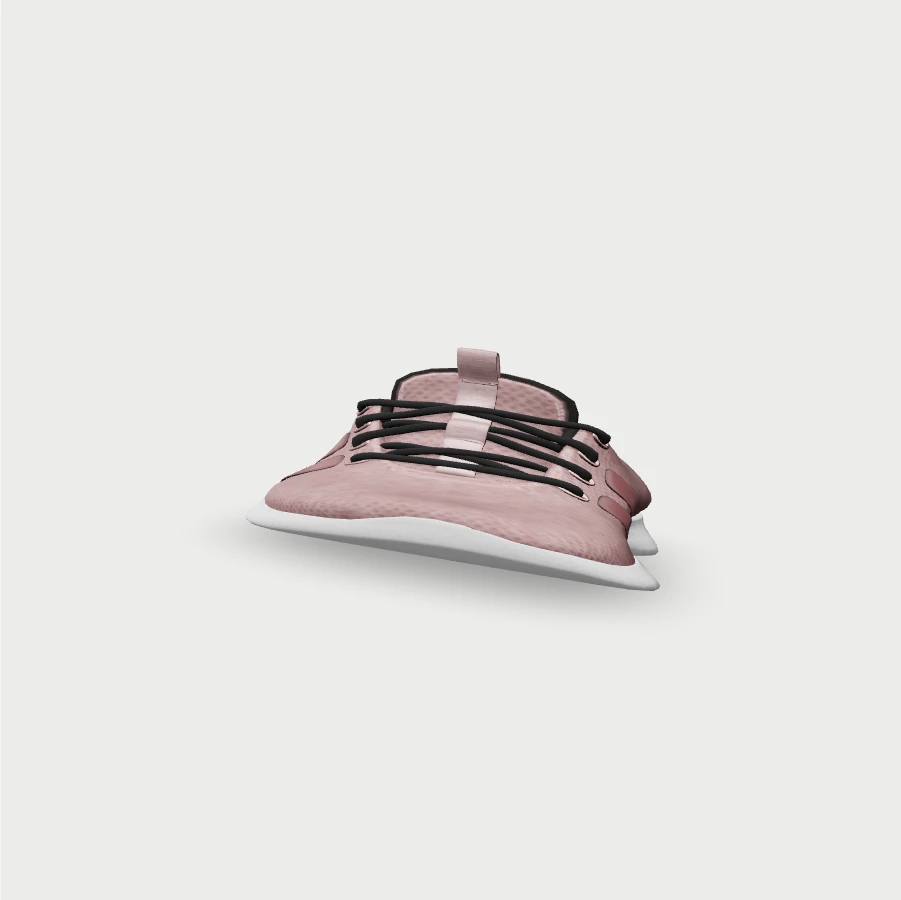
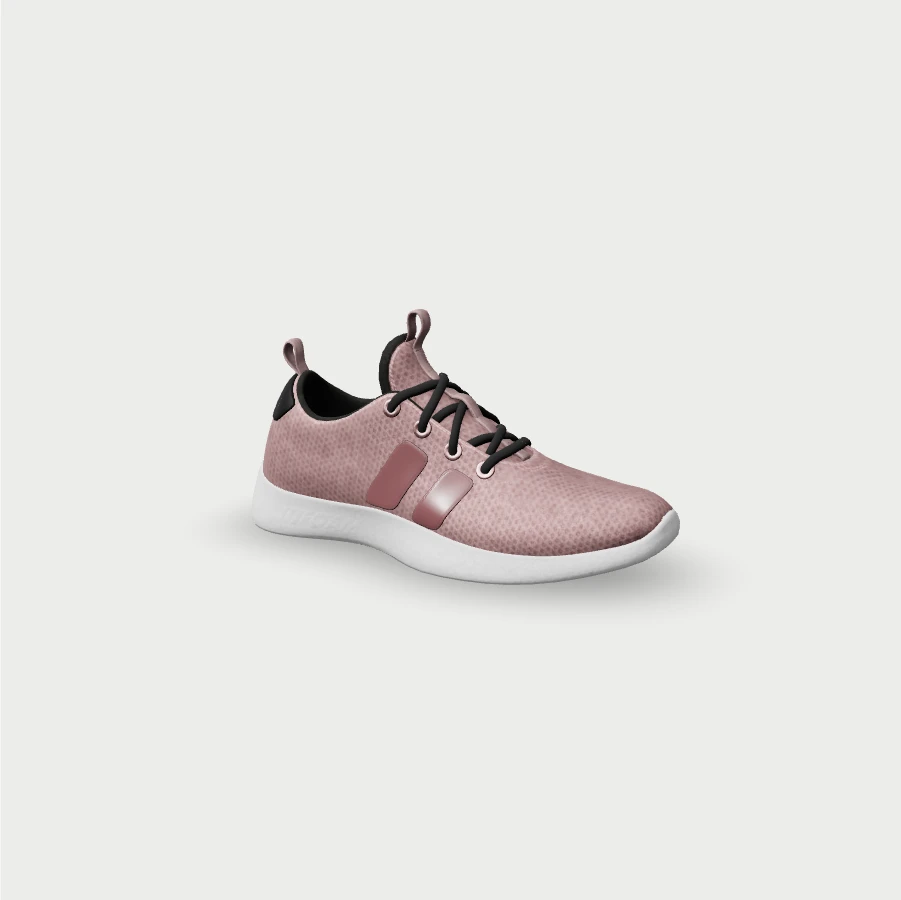
fix(preview): preserve sneaker proportions and refresh catalog image

Changed region(s): [[0.2797, 0.3422, 0.7769, 0.6533]]

diff --git a/scripts/capture-model-previews.ts b/scripts/capture-model-previews.ts
@@ -6,6 +6,7 @@ import { starterTemplates, createDesign, defaultRoom } from '../packages/shared/
 import { captureHero } from './capture-hero-preview';
 
 const base = process.env.PREVIEW_BASE_URL ?? 'http://localhost:5173';
+const kinds = process.argv.slice(2);
 const output = resolve(import.meta.dir, '../apps/web/public/models/previews');
 await mkdir(output, { recursive: true });
 const browser = await chromium.launch({
@@ -19,6 +20,7 @@ const errors: string[] = [];
 page.on('pageerror', (error) => errors.push(error.message));
 try {
   for (const template of starterTemplates) {
+    if (kinds.length && !kinds.includes(template.modelKind)) continue;
     await page.goto(base + '/product/' + template.id + '?capture');
     await page.addStyleTag({
       content:
@@ -35,55 +37,59 @@ try {
       .toFile(resolve(output, template.modelKind + '.webp'));
     console.log('Rendered ' + template.modelKind);
   }
-  const room = structuredClone(defaultRoom);
-  room.wallColor = '#e6e3dd';
-  room.floorColor = '#c6b9a4';
-  room.openings = [
-    { id: 'window', wall: 0, kind: 'window', offset: 1100, width: 1800, height: 1200 },
-  ];
-  room.items = [
-    {
-      id: 'desk',
-      document: createDesign(starterTemplates.find((t) => t.modelKind === 'desk')!),
-      x: 1600,
-      y: 1600,
-      rotation: 0,
-    },
-    {
-      id: 'shelf',
-      document: createDesign(starterTemplates.find((t) => t.modelKind === 'shelf')!),
-      x: 600,
-      y: 2900,
-      rotation: 90,
-    },
-    {
-      id: 'sideboard',
-      document: createDesign(starterTemplates.find((t) => t.modelKind === 'sideboard')!),
-      x: 3700,
-      y: 650,
-      rotation: 0,
-    },
-  ];
-  await page.goto(base + '/room-planner');
-  await page.evaluate(
-    (value) => localStorage.setItem('3dmantap:room', JSON.stringify(value)),
-    room,
-  );
-  await page.reload();
-  await page.getByRole('button', { name: 'Ruang 3D', exact: true }).click();
-  await page.addStyleTag({ content: '.canvas-mode{visibility:hidden}' });
-  const canvas = page.locator('.room-3d canvas');
-  await canvas
-    .locator('xpath=self::*[@data-model-loaded]')
-    .waitFor({ state: 'attached', timeout: 40000 });
-  await page.waitForTimeout(800);
-  await sharp(await canvas.screenshot())
-    .resize(1100, 800, { fit: 'contain', background: '#ededeb' })
-    .webp({ quality: 90 })
-    .toFile(resolve(output, 'room.webp'));
-  if (errors.length) throw new Error('Preview rendering failed: ' + errors.join('; '));
-  console.log('Rendered room planner with three sourced furniture models.');
-  await captureHero(page, base, output);
+  if (kinds.length && !kinds.includes('room') && !kinds.includes('hero')) {
+    if (errors.length) throw new Error('Preview rendering failed: ' + errors.join('; '));
+  } else {
+    const room = structuredClone(defaultRoom);
+    room.wallColor = '#e6e3dd';
+    room.floorColor = '#c6b9a4';
+    room.openings = [
+      { id: 'window', wall: 0, kind: 'window', offset: 1100, width: 1800, height: 1200 },
+    ];
+    room.items = [
+      {
+        id: 'desk',
+        document: createDesign(starterTemplates.find((t) => t.modelKind === 'desk')!),
+        x: 1600,
+        y: 1600,
+        rotation: 0,
+      },
+      {
+        id: 'shelf',
+        document: createDesign(starterTemplates.find((t) => t.modelKind === 'shelf')!),
+        x: 600,
+        y: 2900,
+        rotation: 90,
+      },
+      {
+        id: 'sideboard',
+        document: createDesign(starterTemplates.find((t) => t.modelKind === 'sideboard')!),
+        x: 3700,
+        y: 650,
+        rotation: 0,
+      },
+    ];
+    await page.goto(base + '/room-planner');
+    await page.evaluate(
+      (value) => localStorage.setItem('3dmantap:room', JSON.stringify(value)),
+      room,
+    );
+    await page.reload();
+    await page.getByRole('button', { name: 'Ruang 3D', exact: true }).click();
+    await page.addStyleTag({ content: '.canvas-mode{visibility:hidden}' });
+    const canvas = page.locator('.room-3d canvas');
+    await canvas
+      .locator('xpath=self::*[@data-model-loaded]')
+      .waitFor({ state: 'attached', timeout: 40000 });
+    await page.waitForTimeout(800);
+    await sharp(await canvas.screenshot())
+      .resize(1100, 800, { fit: 'contain', background: '#ededeb' })
+      .webp({ quality: 90 })
+      .toFile(resolve(output, 'room.webp'));
+    if (errors.length) throw new Error('Preview rendering failed: ' + errors.join('; '));
+    console.log('Rendered room planner with three sourced furniture models.');
+    if (!kinds.length || kinds.includes('hero')) await captureHero(page, base, output);
+  }
 } finally {
   await browser.close();
 }

diff --git a/packages/shared/src/models.test.ts b/packages/shared/src/models.test.ts
@@ -1,11 +1,49 @@
 import { expect, test } from 'bun:test';
 import { NodeIO } from '@gltf-transform/core';
 import { ALL_EXTENSIONS } from '@gltf-transform/extensions';
+import { productModelScale, productModels } from './models';
+import { starterTemplates } from './templates';
 import { createHash } from 'node:crypto';
 import { resolve } from 'node:path';
 
 const folder = resolve(import.meta.dir, '../../../apps/web/public/models');
 const io = new NodeIO().registerExtensions(ALL_EXTENSIONS);
+test('sneaker keeps the sourced proportions at the configured length', async () => {
+  const document = await io.read(resolve(folder, 'sneaker.glb'));
+  const bounds = { min: [Infinity, Infinity, Infinity], max: [-Infinity, -Infinity, -Infinity] };
+  document
+    .getRoot()
+    .listScenes()[0]
+    .traverse((node) => {
+      const matrix = node.getWorldMatrix();
+      for (const primitive of node.getMesh()?.listPrimitives() ?? []) {
+        const positions = primitive.getAttribute('POSITION')!;
+        for (let i = 0; i < positions.getCount(); i++) {
+          const [x, y, z] = positions.getElement(i, [0, 0, 0]);
+          for (let axis = 0; axis < 3; axis++) {
+            const value =
+              matrix[axis] * x + matrix[axis + 4] * y + matrix[axis + 8] * z + matrix[axis + 12];
+            bounds.min[axis] = Math.min(bounds.min[axis], value);
+            bounds.max[axis] = Math.max(bounds.max[axis], value);
+          }
+        }
+      }
+    });
+  const size = {
+    x: bounds.max[0] - bounds.min[0],
+    y: bounds.max[1] - bounds.min[1],
+    z: bounds.max[2] - bounds.min[2],
+  };
+  const template = starterTemplates.find((t) => t.modelKind === 'shoe')!;
+  expect(productModels.shoe.rotation).toEqual([0, 0, 0]);
+  const scale = productModelScale(template, template.dimensions, size);
+  const actual = [size.x * scale[0], size.y * scale[1], size.z * scale[2]];
+  expect(Math.max(actual[0], actual[2])).toBeCloseTo(0.32, 6);
+  expect(actual[1] / actual[0]).toBeCloseTo(size.y / size.x, 6);
+  expect(actual[2] / actual[0]).toBeCloseTo(size.z / size.x, 6);
+  expect(actual[1]).toBeGreaterThan(0.15);
+  expect(actual[2]).toBeGreaterThan(0.1);
+});
 test('bundled GLBs match their manifest and contain finite, self-contained mesh data', async () => {
   const manifest = (await Bun.file(resolve(folder, 'manifest.json')).json()) as {
     file: string;

diff --git a/packages/shared/src/models.ts b/packages/shared/src/models.ts
@@ -1,4 +1,4 @@
-import type { ProductTemplate } from './contracts';
+import type { ProductTemplate, DesignDocument } from './contracts';
 export type ModelAsset = {
   file: string;
   source: string;
@@ -45,7 +45,7 @@ export const productModels: Record<ProductTemplate['modelKind'], ModelAsset> = {
     author: 'Shopify',
     license: 'CC-BY-4.0',
     mode: 'shoe',
-    rotation: [0, -Math.PI / 2, 0],
+    rotation: [0, 0, 0],
   },
   bag: {
     file: 'duffel',
@@ -64,3 +64,21 @@ export const productModels: Record<ProductTemplate['modelKind'], ModelAsset> = {
 };
 export const modelFile = (template: ProductTemplate) =>
   '/models/' + productModels[template.modelKind].file + '.glb';
+
+export function productModelScale(
+  template: ProductTemplate,
+  dimensions: DesignDocument['dimensions'],
+  size: { x: number; y: number; z: number },
+): [number, number, number] {
+  if (!template.glbAssetId && template.modelKind === 'shoe') {
+    const factor = dimensions.width / 1000 / Math.max(size.x, size.z);
+    return [factor, factor, factor];
+  }
+  const depth =
+    !template.glbAssetId && template.modelKind === 'cap' ? dimensions.width : dimensions.depth;
+  return [
+    dimensions.width / 1000 / size.x,
+    dimensions.height / 1000 / size.y,
+    depth / 1000 / size.z,
+  ];
+}

diff --git a/apps/web/src/features/editor/GLBProduct.tsx b/apps/web/src/features/editor/GLBProduct.tsx
@@ -7,6 +7,7 @@ import {
   furniturePanels,
   modelFile,
   productModels,
+  productModelScale,
   type ProductTemplate,
   type DesignDocument,
 } from '@3dmantap/shared';
@@ -60,15 +61,8 @@ export function GLBProduct({
     if ([size.x, size.y, size.z].some((n) => !Number.isFinite(n) || n <= 0))
       throw new Error('Dimensi model GLB tidak valid.');
     const center = box.getCenter(new THREE.Vector3());
-    const desiredDepth =
-      ((asset.mode === 'hat' ? document.dimensions.width : document.dimensions.depth) / 1000) *
-      (asset.mode === 'shoe' ? 0.4 : 1);
     const group = new THREE.Group();
-    group.scale.set(
-      document.dimensions.width / 1000 / size.x,
-      document.dimensions.height / 1000 / size.y,
-      desiredDepth / size.z,
-    );
+    group.scale.set(...productModelScale(template, document.dimensions, size));
     source.position.set(-center.x, -box.min.y, -center.z);
     source.traverse((child) => {
       if (child instanceof THREE.Mesh) {

diff --git a/docs/model-assets.md b/docs/model-assets.md
@@ -31,3 +31,5 @@ Garment mengikuti rest pose sumber, tanpa simulasi kain atau pembuatan pola jahi
 Tes Bun memeriksa integritas file, batas cache, mesh finite, referensi self-contained serta ukuran/UV/PBR komponen panel. Playwright menunggu GLB benar-benar selesai dimuat untuk semua 13 produk dan memeriksa custom artwork serta room planner. Referensi Dribbble tidak berhasil diakses pada sesi ini; tampilan tidak diklaim sebagai salinan desain Dribbble tertentu.
 
 Tes proyeksi juga memeriksa konversi atribut quantized tanpa mengubah geometri sumber, serta penolakan sisi belakang/brim horizontal untuk cetak depan.
+
+Model sepatu panjang pada sumbu X. Runtime mempertahankan orientasi ini dan skala seragam berdasarkan sumbu horizontal terpanjang. Thumbnail katalog diregenerasi setelah koreksi. Gunakan bun run models:previews shoe untuk merender jenis ini saja.

diff --git a/architecture.md b/architecture.md
@@ -27,3 +27,5 @@ When /me resolves a signed-in account with a valid visitor capability, a transac
 Asset processing uses glTF Transform and Sharp in TypeScript scripts. Sources are pinned/hash-locked, and bundled output hashes are checked in domain tests. WebP previews are captured from the application viewer with Playwright. Model credits are shipped publicly. PWA precaches public GLBs, previews and local fonts; private API assets stay outside cache. Room walls use a camera-facing cutaway while physical floorplan data remains unchanged.
 
 Bun workspace and lockfile. ESLint, Prettier, strict typechecks, Bun domain/integration tests, Playwright browser tests. Docker deployment uses persistent database and upload volumes; backup both together.
+
+Bundled sneakers use uniform scale from their longest horizontal axis.

diff --git a/PRD.md b/PRD.md
@@ -28,3 +28,5 @@ Bahasa Indonesia; IDR integers; UI centimeters, stored millimeters. Original sta
 ## Visual and model requirements
 
 The storefront uses large product imagery, restrained typography, a neutral palette and responsive layouts. Bundled garment/accessory meshes are sourced GLBs with recorded licenses, integrity hashes and reproducible processing. Furniture uses sourced GLB board/door components sized from the same physical panel generator as cut lists. Artwork projects onto actual product surfaces. Room 3D uses camera-dependent exterior wall cutaway. Default models/fonts/preview images remain available offline; private API assets are excluded. Source provenance and manufacturing limitations are documented in docs/model-assets.md.
+
+Sneaker detail and catalog previews preserve source proportions.

diff --git a/README.md b/README.md
@@ -76,3 +76,5 @@ Backup database dan volume uploads bersama. Pada lokal, backup database 3dmantap
 - [PRD](PRD.md), [arsitektur](architecture.md), [instruksi agent](AGENTS.md), [changelog](CHANGELOG.md).
 - [Indeks 20 fitur](docs/README.md), [sumber GLB dan batas model](docs/model-assets.md).
 - Font Inter, Manrope dan Noto dibundel dengan SIL Open Font License di public/fonts. Kredit GLB tersedia pada /models/credits.html. Thumbnail produk berasal dari viewer GLB aplikasi. Ikon PNG dapat diregenerasi dengan bun run apps/api/src/tools/icons.ts.
+
+Preview sepatu mempertahankan proporsi GLB asli; thumbnail katalog dirender ulang setelah koreksi orientasi dan skala.

diff --git a/docs/fashion-editor.md b/docs/fashion-editor.md
@@ -19,3 +19,5 @@ Perubahan terlihat dalam 3D dan bertahan setelah reload; jumlah varian digunakan
 ## Verifikasi
 
 Jalankan pemeriksaan kualitas README.md. Domain diuji dengan Bun; alur browser dan izin diuji melalui Playwright. Gunakan akun/token terpisah saat memeriksa akses privat.
+
+Sepatu bawaan mempertahankan orientasi sumber dan skala seragam. Panjang horizontal terbesar mengikuti lebar template; tinggi/depth visual mengikuti proporsi GLB, tanpa peregangan ke dimensi nominal.

diff --git a/docs/catalog.md b/docs/catalog.md
@@ -17,3 +17,5 @@ Semua 13 template awal membuka viewer tanpa error; kegagalan WebGL memiliki fall
 ## Verifikasi
 
 Jalankan pemeriksaan kualitas README.md. Domain diuji dengan Bun; alur browser dan izin diuji melalui Playwright. Gunakan akun/token terpisah saat memeriksa akses privat.
+
+Thumbnail Canvas Sneaker dirender ulang dengan orientasi GLB asli dan skala seragam. Detail dan katalog memperlihatkan proporsi yang sama.

diff --git a/CHANGELOG.md b/CHANGELOG.md
@@ -1,5 +1,11 @@
 # Changelog
 
+## 0.3.0 — 2026-11-11
+
+### Fixed
+
+- Sneaker orientation and nonuniform stretching; regenerated catalog thumbnail from the corrected GLB.
+
 ## 0.2.0 — 2026-11-11
 
 ### Changed
